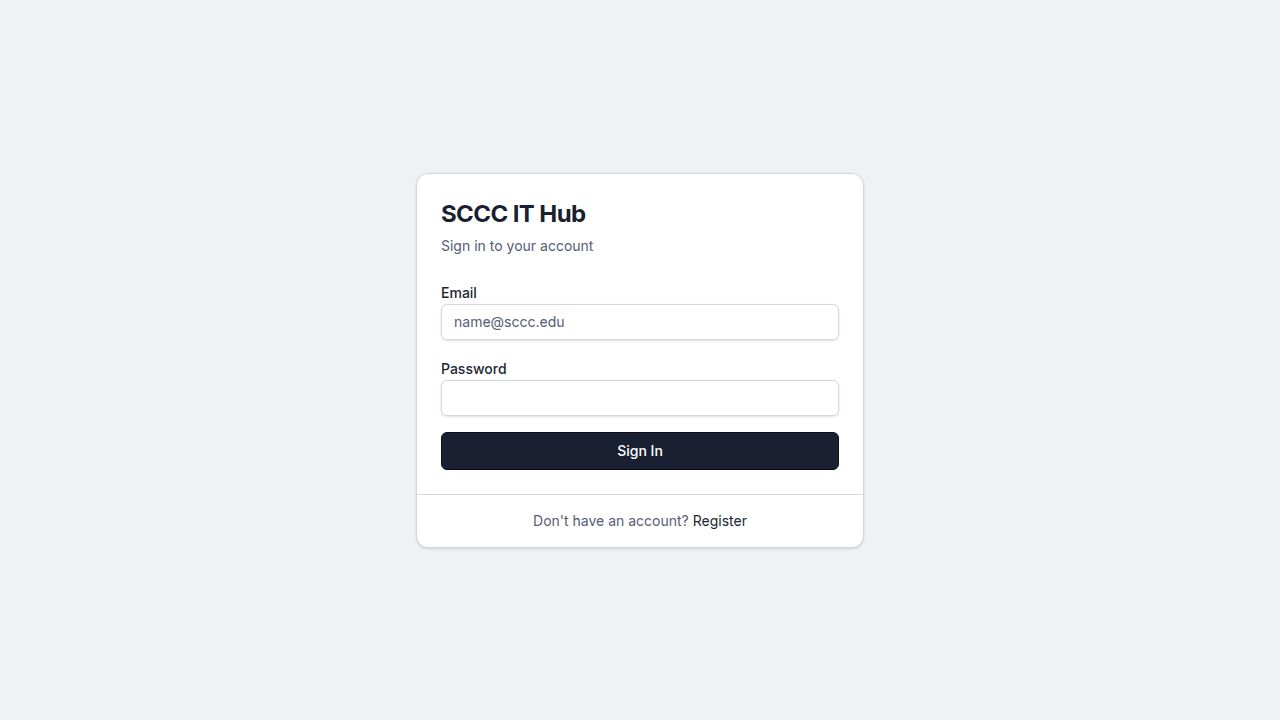
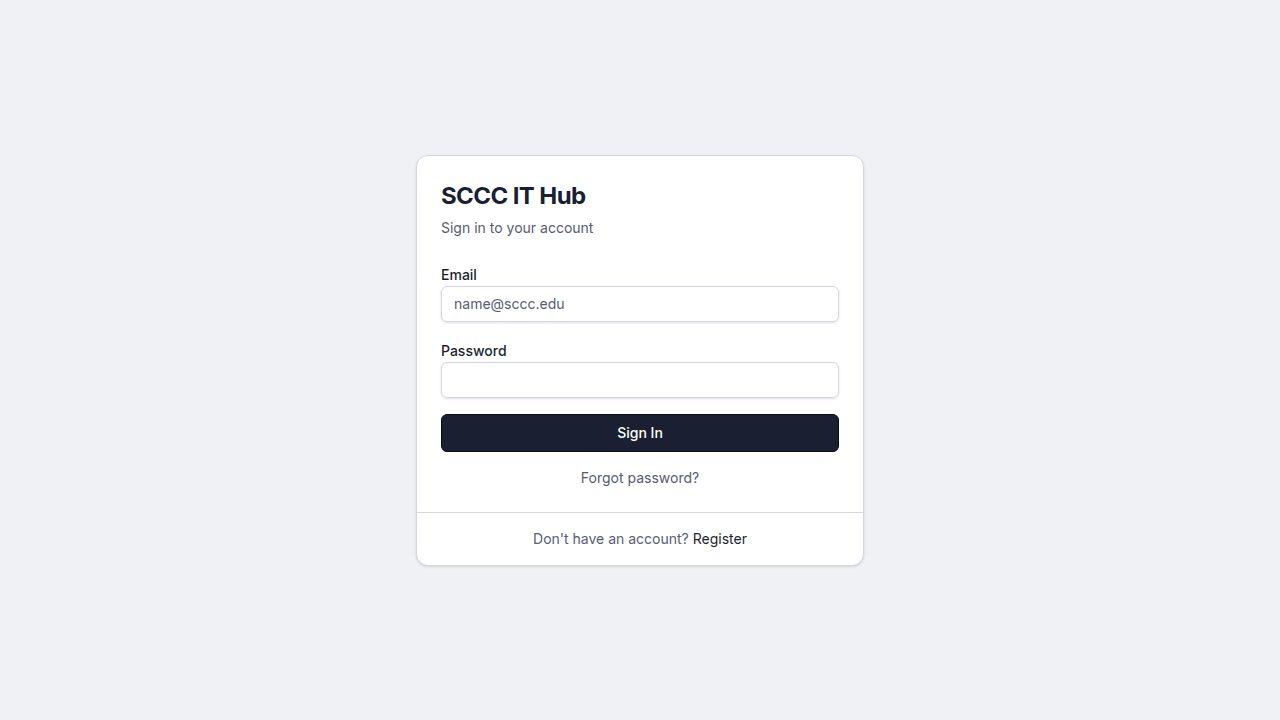
Show inline error + retry on CIO dashboard summary cards
Task #21: When `useGetDashboardSummary` fails, the four summary
cards previously showed `0`s, making a real backend failure look
identical to an empty workspace. Now we surface the failure
explicitly.

Changes (artifacts/it-reporting/src/pages/dashboard.tsx):
- Destructure `isError`, `refetch`, and `isFetching` from
  `useGetDashboardSummary()` in `CIODashboard`.
- Render a destructive-styled inline alert above the card grid
  with an AlertCircle icon, the message
  "Couldn't load stats. The dashboard summary is temporarily
  unavailable.", and a Retry button.
- The Retry button calls `refetchSummary()` (no full page reload),
  is disabled while fetching, swaps its icon to a spinning
  RefreshCw, and labels itself "Retrying…".
- Each of the four cards now renders an em-dash ("—") for its
  primary value and "Couldn't load stats" for its secondary line
  when the query is in an error state, instead of falling back
  to `0`. A small `summaryValue()` helper handles the swap for
  the three single-number cards; the Network Status card has
  its own inline branch because it composes two values.
- Added `Button`, `AlertCircle`, and `RefreshCw` imports.

No backend changes; the API already returns a structured 500
(per task #9). Did not touch unrelated `recentActivity` or
`weekStatus` queries on the same page (out of scope, captured
as a follow-up).

A pre-existing TypeScript error in
`src/pages/after-action/new.tsx` (`zendeskTicketId` not in
[…]

diff --git a/artifacts/it-reporting/src/pages/dashboard.tsx b/artifacts/it-reporting/src/pages/dashboard.tsx
@@ -1,7 +1,8 @@
 import { useGetDashboardSummary, useGetRecentActivity, useGetWeekStatus } from "@workspace/api-client-react";
 import { Card, CardContent, CardHeader, CardTitle } from "@/components/ui/card";
+import { Button } from "@/components/ui/button";
 import { format } from "date-fns";
-import { Activity, ShieldAlert, CheckCircle2, XCircle, Clock, Server, FileText } from "lucide-react";
+import { Activity, ShieldAlert, CheckCircle2, XCircle, Clock, Server, FileText, AlertCircle, RefreshCw } from "lucide-react";
 import { Badge } from "@/components/ui/badge";
 import { QuoteOfDay } from "@/components/QuoteOfDay";
 import { ZendeskResolved } from "@/components/ZendeskResolved";
@@ -19,9 +20,17 @@ export default function Dashboard() {
 }
 
 function CIODashboard() {
-  const { data: summary } = useGetDashboardSummary();
+  const {
+    data: summary,
+    isError: isSummaryError,
+    refetch: refetchSummary,
+    isFetching: isSummaryFetching,
+  } = useGetDashboardSummary();
   const { data: recentActivity } = useGetRecentActivity({ limit: 10 });
   const { data: weekStatus } = useGetWeekStatus();
+
+  const summaryValue = (value: number | undefined) =>
+    isSummaryError ? "—" : value ?? 0;
 
   return (
     <div className="space-y-6 max-w-7xl mx-auto">
@@ -44,6 +53,28 @@ function CIODashboard() {
 
       <QuoteOfDay />
 
+      {isSummaryError && (
+        <div
+          role="alert"
+          className="flex flex-col gap-3 rounded-md border border-destructive/40 bg-destructive/5 px-4 py-3 text-sm sm:flex-row sm:items-center sm:justify-between"
+        >
+          <div className="flex items-start gap-2 text-destructive">
+            <AlertCircle className="h-4 w-4 mt-0.5 shrink-0" />
+            <span>Couldn't load stats. The dashboard summary is temporarily unavailable.</span>
+          </div>
+          <Button
+            variant="outline"
+            size="sm"
+            onClick={() => refetchSummary()}
+            disabled={isSummaryFetching}
+            className="self-start sm:self-auto"
+          >
+            <RefreshCw className={`h-4 w-4 mr-2 ${isSummaryFetching ? "animate-spin" : ""}`} />
+            {isSummaryFetching ? "Retrying…" : "Retry"}
+          </Button>
+        </div>
+      )}
+
       <div className="grid gap-4 md:grid-cols-2 lg:grid-cols-4">
         <Card>
           <CardHeader className="flex flex-row items-center justify-between space-y-0 pb-2">
@@ -51,9 +82,11 @@ function CIODashboard() {
             <FileText className="h-4 w-4 text-muted-foreground" />
           </CardHeader>
           <CardContent>
-            <div className="text-2xl font-bold">{summary?.thisWeekEntries || 0}</div>
+            <div className="text-2xl font-bold">{summaryValue(summary?.thisWeekEntries)}</div>
             <p className="text-xs text-muted-foreground mt-1">
-              From {summary?.thisWeekContributors || 0} contributors
+              {isSummaryError
+                ? "Couldn't load stats"
+                : `From ${summary?.thisWeekContributors || 0} contributors`}
             </p>
           </CardContent>
         </Card>
@@ -64,9 +97,11 @@ function CIODashboard() {
             <ShieldAlert className="h-4 w-4 text-amber-500" />
           </CardHeader>
           <CardContent>
-            <div className="text-2xl font-bold">{summary?.openRisks || 0}</div>
+            <div className="text-2xl font-bold">{summaryValue(summary?.openRisks)}</div>
             <p className="text-xs text-muted-foreground mt-1">
-              {summary?.criticalRisks || 0} critical
+              {isSummaryError
+                ? "Couldn't load stats"
+                : `${summary?.criticalRisks || 0} critical`}
             </p>
           </CardContent>
         </Card>
@@ -77,9 +112,13 @@ function CIODashboard() {
             <Server className="h-4 w-4 text-muted-foreground" />
           </CardHeader>
           <CardContent>
-            <div className="text-2xl font-bold">{summary?.onlineSwitches || 0} / {summary?.totalSwitches || 0}</div>
+            <div className="text-2xl font-bold">
+              {isSummaryError
+                ? "—"
+                : `${summary?.onlineSwitches || 0} / ${summary?.totalSwitches || 0}`}
+            </div>
             <p className="text-xs text-muted-foreground mt-1">
-              Switches online
+              {isSummaryError ? "Couldn't load stats" : "Switches online"}
             </p>
           </CardContent>
         </Card>
@@ -90,9 +129,9 @@ function CIODashboard() {
             <Activity className="h-4 w-4 text-muted-foreground" />
           </CardHeader>
           <CardContent>
-            <div className="text-2xl font-bold">{summary?.openAfterActions || 0}</div>
+            <div className="text-2xl font-bold">{summaryValue(summary?.openAfterActions)}</div>
             <p className="text-xs text-muted-foreground mt-1">
-              Open incidents
+              {isSummaryError ? "Couldn't load stats" : "Open incidents"}
             </p>
           </CardContent>
         </Card>